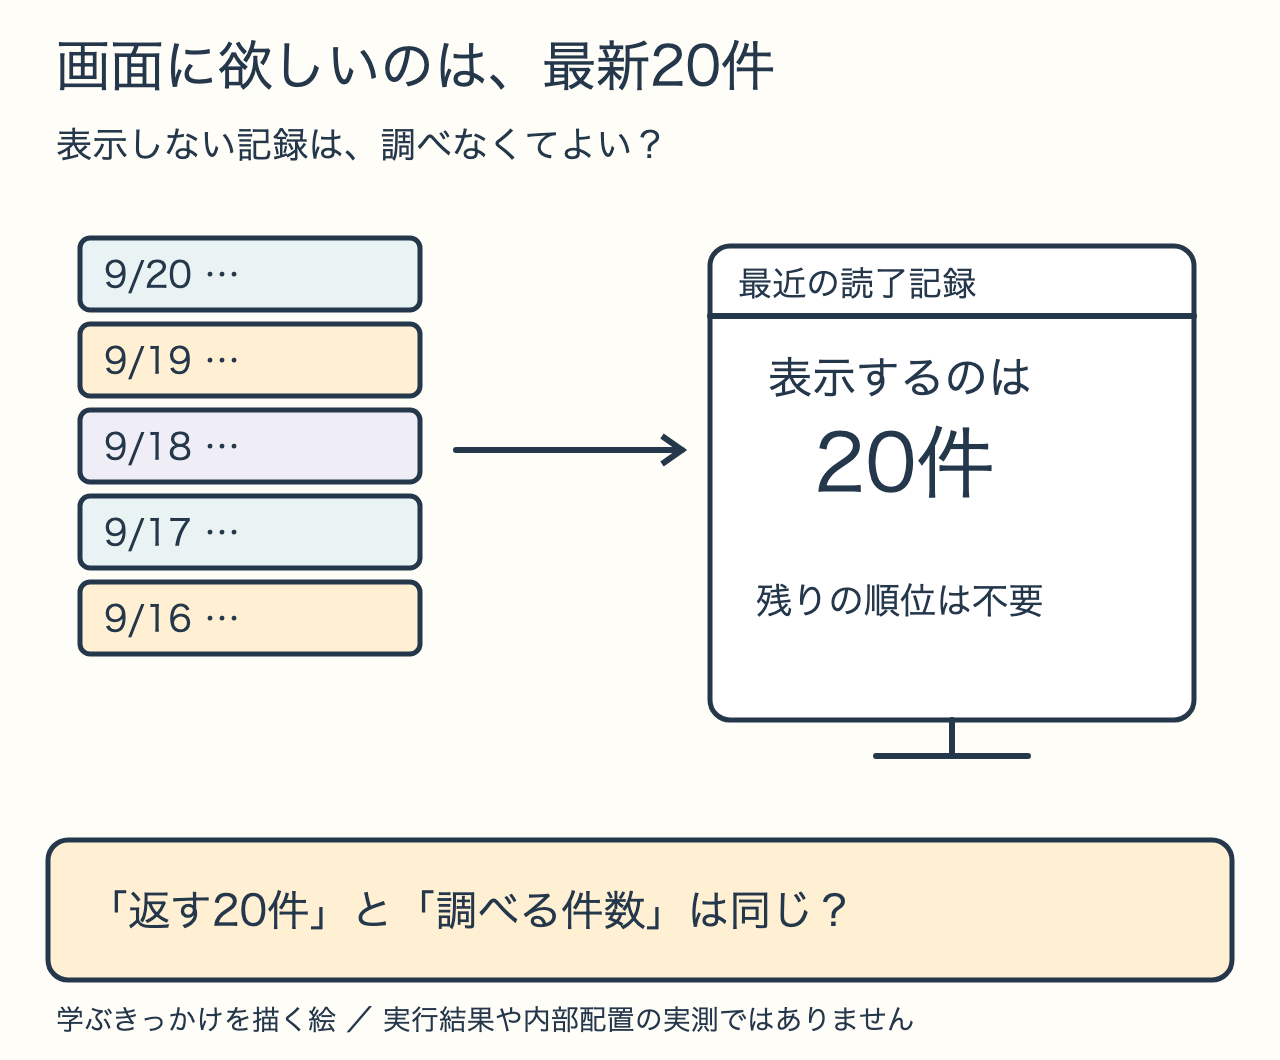
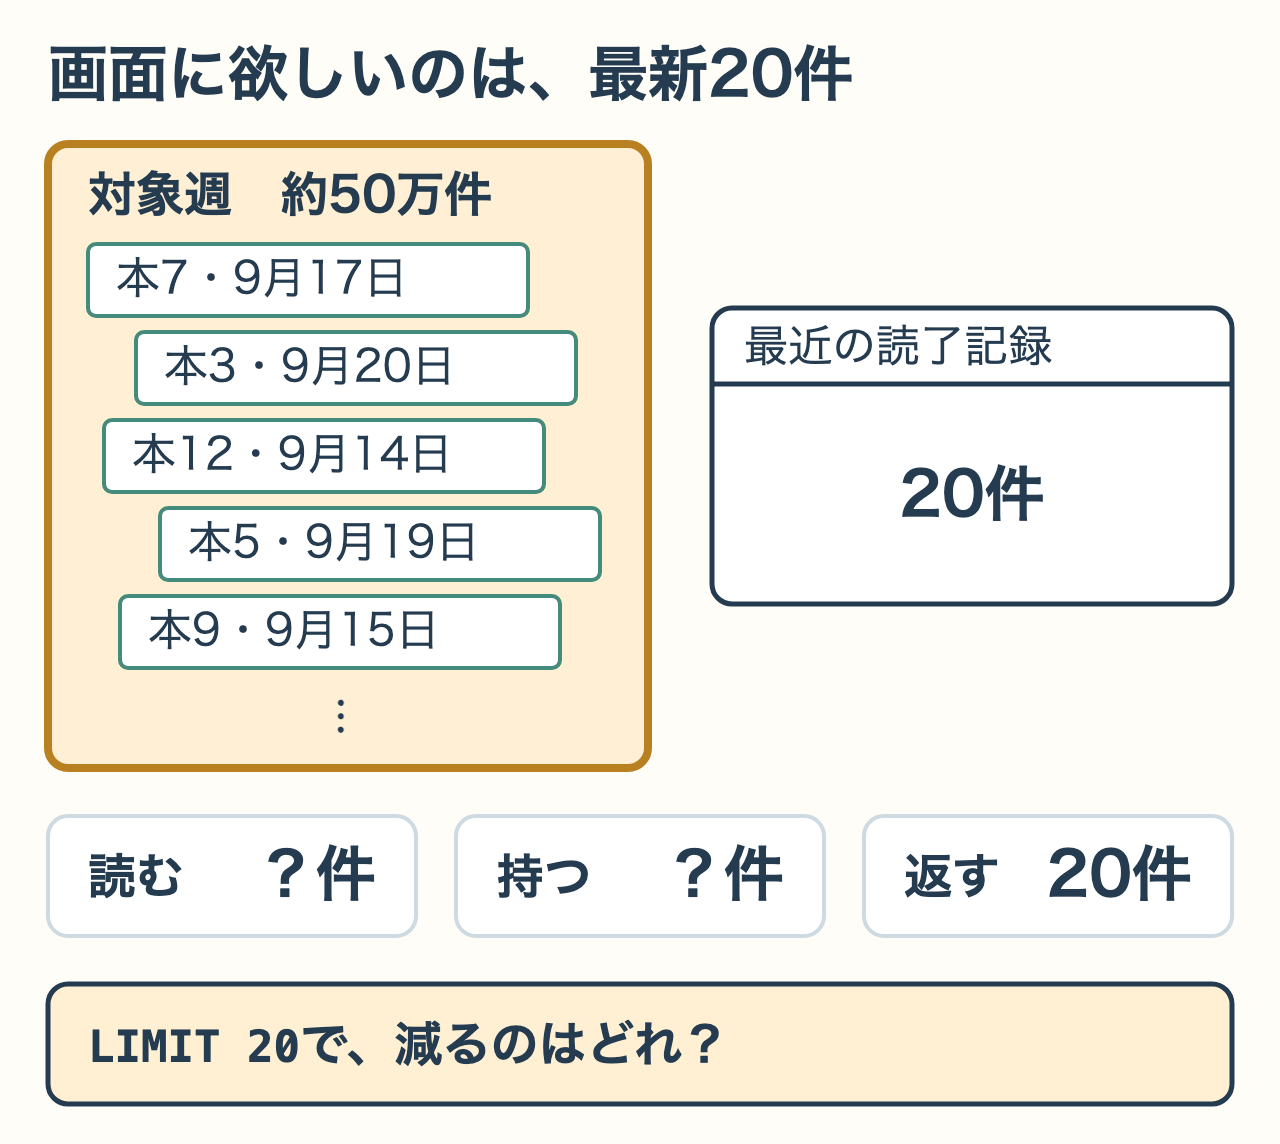
docs(query-journey): 第8章の入口の絵を、ばらばらの約50万件と読む・持つ・返すの三つの枠で問う形にする
記録を並べ済みで描き、画面に「残りの順位は不要」と答えを書いていた。ばらばらの約50万件から20件を出す場面にし、33行目の予想の語で「読む？件・持つ？件・返す20件」の枠を置いた。「調べる」は第7章と指す物が違うので使っていない。

diff --git a/books/postgresql-query-journey/08-top-n-heap.md b/books/postgresql-query-journey/08-top-n-heap.md
@@ -10,8 +10,8 @@ title: "第8章：上位20件だけを選ぶには"
 
 最近の記録の画面に入るのは20件だけです。第7章のSortは対象週の499,998行をすべて並べていましたが、画面に出ない行の順位まで決める必要があるでしょうか。
 
-![画面に欲しいのは、最新20件](/images/postgresql-query-journey/08-twenty-window.png)
-*学ぶきっかけを描く、説明用の場面。*
+![並びがばらばらの約50万件から、画面に最新20件を出す。読む件数と持つ件数は「？」、返すのは20件](/images/postgresql-query-journey/08-twenty-window.png)
+*読む・持つ・返すの三つのうち、LIMIT 20で減るのはどれかを考えてください（説明のための場面）。*
 
 この章で選ぶのは日時順の記録です。本ごとの読了数を比べる人気ランキングとは、並べる基準が違います。
 
